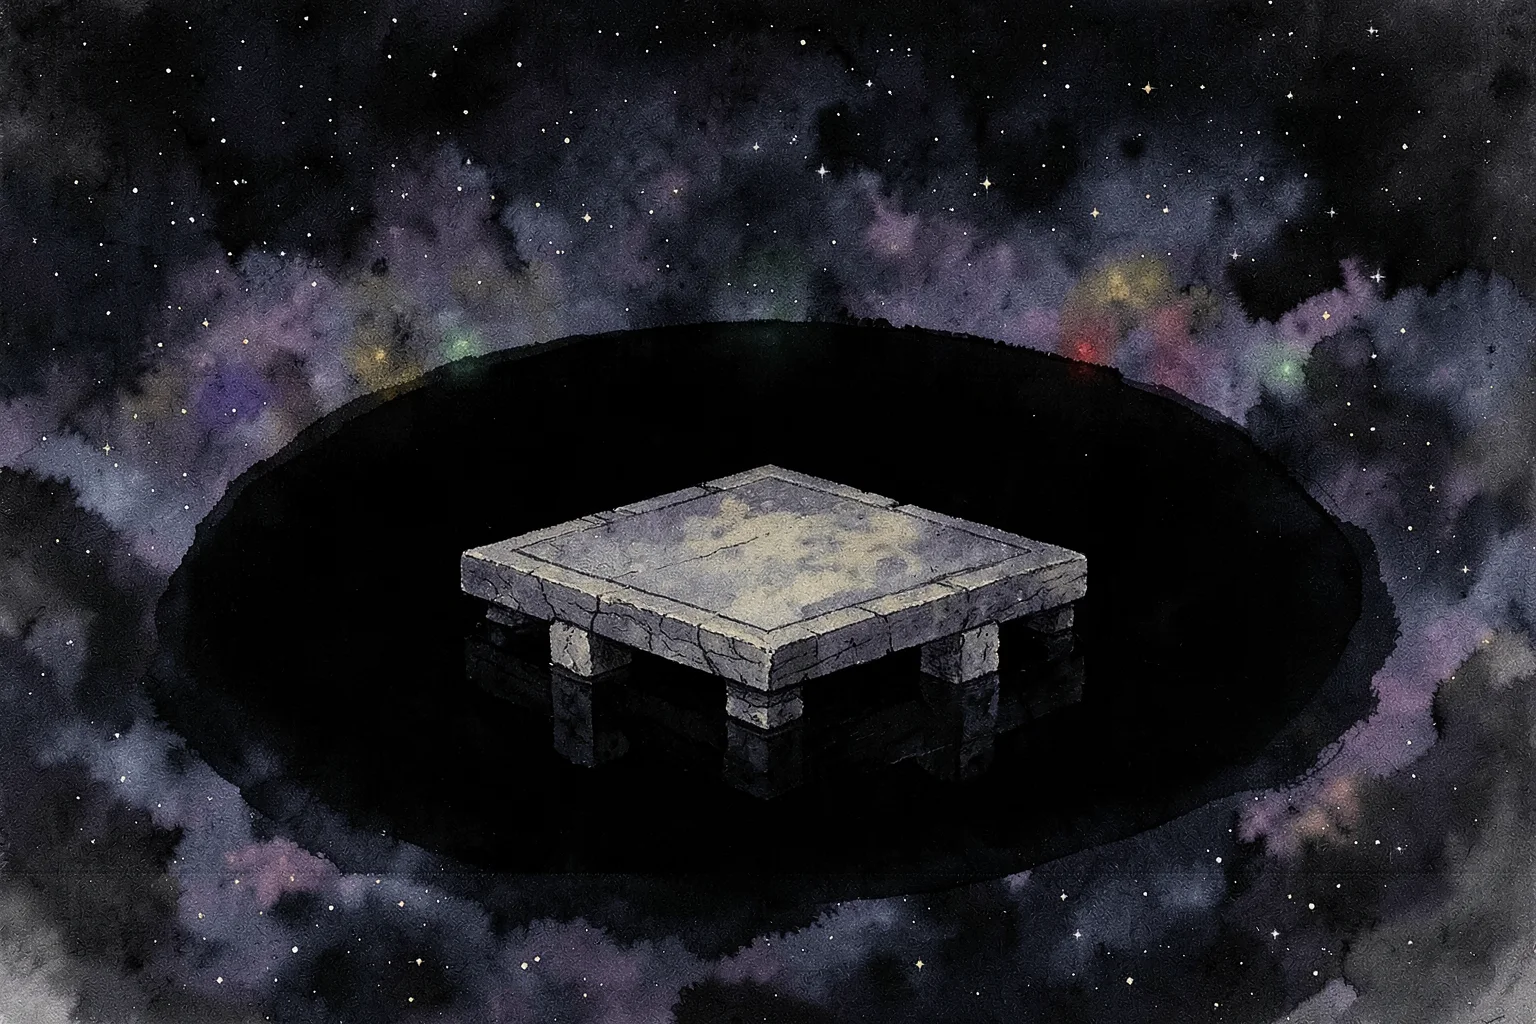
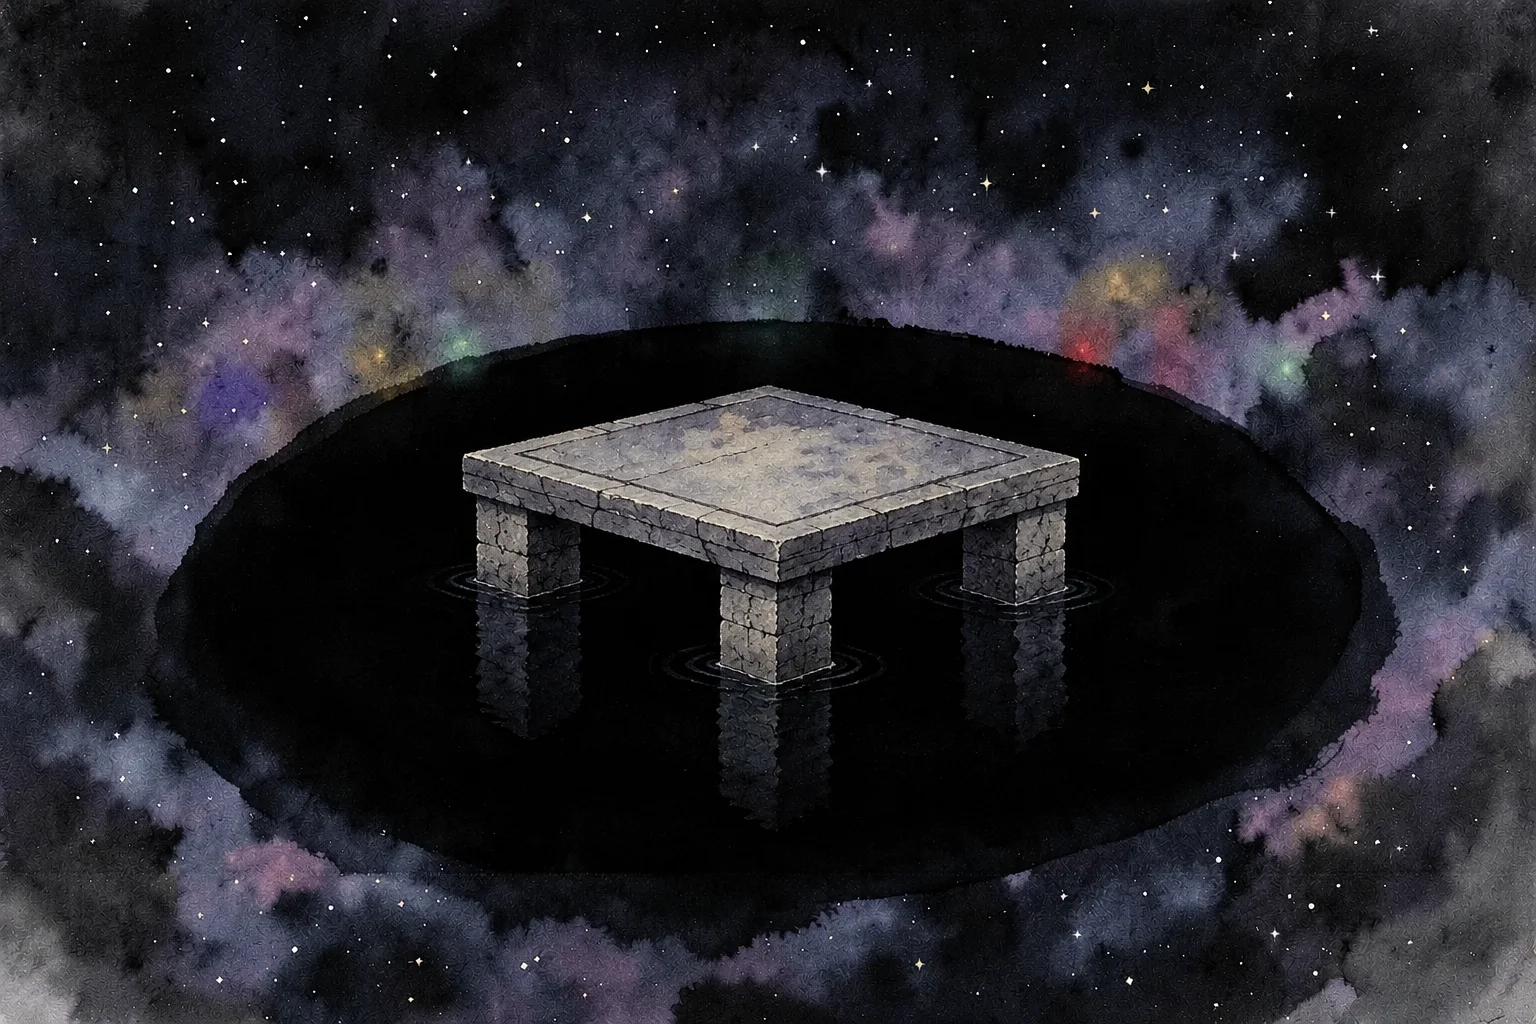
lingjing set pieces: the four Codex repaints — 筑基 b's face (Ming woodblock manner), c's gateways (five freestanding Chinese gates, all five glowing 金木水火土, the 台 flat; door glows re-measured), e1's 台 (raised on four masonry piers, not a low table); 漳水 e's 洛书 counts 4 9 2 / 3 5 7 / 8 1 6, odd white, e

diff --git a/lingjing/scripts/setpieces/zhuji.js b/lingjing/scripts/setpieces/zhuji.js
@@ -77,7 +77,7 @@ export const MARKS = {
   boy: [0.658, 0.45], // a: him on the 青石, the 锅盖云 just over him
   crown: [0.495, 0.34], // b: the light on his crown (his topknot)
   tai: [0.51, 0.62], // c: the platform
-  doors: [[0.17, 0.47], [0.3, 0.35], [0.67, 0.32], [0.765, 0.34], [0.865, 0.46]], // c: 金木水火土, gateways round the lake
+  doors: [[0.117, 0.46], [0.3, 0.32], [0.64, 0.3], [0.765, 0.35], [0.9, 0.46]], // c: 金木水火土, gateways round the lake
   note: [0.49, 0.36], // d1/d2: the paper on the door
   piles: [0.5, 0.6], // e1: the 台 on its four piles, in the black lake afloat in the cosmos
   him: [0.353, 0.8], // e2: him alone on the cliff, looking up

diff --git a/lingjing/tools/paint-setpiece-codex.py b/lingjing/tools/paint-setpiece-codex.py
@@ -1,0 +1,110 @@
+#!/usr/bin/env python3
+"""paint-setpiece-codex.py — the set pieces' Codex repaints: each frame fixed on its kept painting.
+
+    python3 tools/paint-setpiece-codex.py [--only zhuji-b,zhang-e] [--out DIR]
+
+Hanli decided four repaints (2026-09-30) that waited on Codex credits — the FLUX frames
+of 筑基天象 and the last 漳水 frame Codex had run out on:
+  zhuji-b   the face (FLUX's still read anime; Ming woodblock figure painting asked)
+  zhuji-c   the gateways (a wall ringing the lake, arches set in it, the 台 heaped with rocks)
+  zhuji-e1  the 台 (a low table on stubs; it stands on four piles out of the water)
+  zhang-e   the 洛书 dot counts (4 9 2 / 3 5 7 / 8 1 6 — odd white, even black)
+
+Each job hands Codex the kept painting itself (art/setpiece/<id>.webp) as the image to
+repaint, and asks for that one fix with composition, style and light unchanged — so the
+set piece's camera MARKS still land. Painted only with Codex's image tool: an earlier e
+whose tiles Codex overlaid with code was rejected. Same call as paint-codex.py (gpt-5.5,
+stdin closed, 10-minute cap, stop at a usage limit). Paint into a review folder (--out),
+look at every picture, then copy the kept ones into art/setpiece/.
+"""
+import argparse, subprocess, sys
+from pathlib import Path
+
+HERE = Path(__file__).resolve().parent
+ART = HERE.parent / 'worlds' / 'jiuding' / 'art' / 'setpiece'
+
+KEEP = ('Repaint the attached painting as ONE new image in landscape (3:2), 1536x1024. Keep everything about it the '
+        'same — the composition, the camera angle, the placement and size of every element, the painting style, the '
+        'palette, the paper texture and the light — and change ONLY what is described below. Paint it with your image '
+        'generation tool only: do not edit, draw on or overlay the picture with code. No text, no letters, no '
+        'calligraphy, no seal, no signature, no border, no frame.')
+
+JOBS = {
+  'zhuji-b': 'The change: the boy\'s FACE. Repaint his face in the manner of Ming dynasty woodblock and figure-painting '
+             'illustration: a small, plain, thin face drawn with a few fine ink brush lines, narrow closed eyes as two '
+             'short curved strokes, a small simple nose, a small closed mouth — a poor thin Chinese village boy of '
+             'thirteen. NOT anime, NOT manga, NOT a webtoon or cartoon face: no big eyes, no large round head, no '
+             'glossy hair, no blush. Keep his topknot, his body, his pose, the stone, the pine, the cloud and the very '
+             'faint thread of light that comes down from the cloud and rests on the top of his head exactly where they are.',
+  'zhuji-c': 'The change: the GATEWAYS round the lake. Replace the long white walls with FIVE separate, freestanding old '
+             'Chinese gateways, each standing on its own on the rim of the black lake with empty starry void between '
+             'them — no continuous wall around the lake. Each gateway is either a round moon gate set in a SHORT stretch '
+             'of whitewashed wall with a grey tiled top, or a plain timber gateway (a humble paifang) under a small curved '
+             'tiled roof — Chinese, not stone arches, not Romanesque, not European. Keep them where the five doors are '
+             'now: far left, left, right of centre, right, far right. Each gateway\'s opening glows softly from within, '
+             'from left to right: pale gold, moss green, deep indigo, dull cinnabar red, ochre yellow — all five glowing, '
+             'their glows reflected in the black water. Also: the square stone platform in the middle of the lake is '
+             'broad and FLAT on top, its top level and bare — no rocks piled on it; a few rough stones still rise out '
+             'of the water AROUND it, water streaming off them. No people.',
+  'zhuji-e1': 'The change: the PLATFORM. It must stand clearly up out of the still black water on exactly FOUR thick, '
+              'tall, square stone piles, one under each corner — all four piles visible, going straight down into the '
+              'water, each with its reflection below it, so there is a clear height of dark water and air between the '
+              'platform and the lake (it is a raised 台 on four piles, not a low table). Make it massive stone architecture, NOT furniture — not a table, not a stool, not a bench: the slab is thick and heavy, and the four piles are broad, rough-hewn square stone piers like the piers of an old stone bridge, rising out of the deep water. The platform itself: one square, '
+              'flat, level stone slab, empty, solid and calm. Keep it in the centre of the lake where it is now, seen a '
+              'little from the side, the lake floating in the dark cosmos with its stars and muted nebula, and the five '
+              'small soft glows far off round the edge of the lake (gold, green, indigo, red, ochre). No people, no '
+              'figures, no cliff.',
+  'zhang-e': 'The change: the DOTS on the nine square stone tiles on top of the bronze vessel (the 洛书, the Lo Shu '
+             'magic square). Every tile keeps its place; only its dots change. Each tile carries a set of round dots, '
+             'clearly separate and countable, set in a simple regular pattern like dice pips. ODD numbers are WHITE '
+             'dots (pale, bright, like inlaid white jade); EVEN numbers are BLACK dots (dark ink, like inlaid jet). '
+             'Read the grid as it lies in the picture, the far row at the top: FAR row, left to right: 4 black dots, '
+             '9 white dots, 2 black dots. MIDDLE row, left to right: 3 white dots, 5 white dots (this is the centre '
+             'tile, under the boy\'s hand, glowing softly), 7 white dots. NEAR row (the front edge), left to right: '
+             '8 black dots, 1 white dot, 6 black dots. Exactly those numbers — every row, column and diagonal adds up '
+             'to 15. Keep the boy swimming down with his hand pressed on the centre tile, the light from above, the '
+             'fish, the weed, the square four-legged vessel and its carved sides exactly as they are.',
+}
+
+
+def paint(key, out_dir, src=None, extra=''):
+  src = Path(src) if src else ART / f'{key}.webp'
+  ref = out_dir / f'{key}-ref.png'
+  png = out_dir / f'{key}.png'
+  if src.suffix == '.png':
+    ref.write_bytes(src.read_bytes())
+  else:
+    subprocess.run(['/opt/homebrew/bin/dwebp', '-quiet', str(src), '-o', str(ref)], check=True)
+  png.unlink(missing_ok=True)
+  prompt = f'{KEEP} {JOBS[key]} {extra} Save the image in the current directory as {png.name}. Reply with the saved file path only.'
+  try:
+    r = subprocess.run(['codex', 'exec', '-m', 'gpt-5.5', '--skip-git-repo-check', '-s', 'workspace-write', '-i', str(ref), '--', prompt],
+                       cwd=out_dir, capture_output=True, text=True, stdin=subprocess.DEVNULL, timeout=600)
+  except subprocess.TimeoutExpired:
+    return 'failed: no picture in 10 minutes'
+  if not png.exists():
+    said = (r.stdout + r.stderr).lower()
+    if 'usage limit' in said or 'out of credits' in said or 'rate limit' in said:
+      raise SystemExit(f'{key}: Codex limit reached — stopped')
+    return f'failed: {r.stdout.strip()[-200:]} {r.stderr.strip()[-200:]}'
+  c = subprocess.run(['/opt/homebrew/bin/cwebp', '-q', '84', '-resize', '1536', '1024', str(png), '-o', str(out_dir / f'{key}.webp')], capture_output=True)
+  return 'ok' if c.returncode == 0 else 'cwebp failed'
+
+
+def main():
+  ap = argparse.ArgumentParser()
+  ap.add_argument('--only', default='')
+  ap.add_argument('--ref', default=None, help='repaint this picture (a kept review roll) instead of art/setpiece/<id>.webp')
+  ap.add_argument('--extra', default='', help='one more sentence: what the last roll got wrong')
+  ap.add_argument('--out', required=True, help='a review folder; copy the kept pictures into art/setpiece/ by hand')
+  a = ap.parse_args()
+  only = set(filter(None, a.only.split(',')))
+  out = Path(a.out).resolve()
+  out.mkdir(parents=True, exist_ok=True)
+  for key in JOBS:
+    if not only or key in only:
+      print(f'{key}: {paint(key, out, a.ref, a.extra)}', flush=True)
+
+
+if __name__ == '__main__':
+  sys.exit(main())

diff --git a/lingjing/worlds/jiuding/art/CREDITS.md b/lingjing/worlds/jiuding/art/CREDITS.md
@@ -127,8 +127,8 @@ The chapter has no story panels (his ruling, 2026-09-29). No outside source.
 
 ## 第九回 · 筑基天象 — set-piece paintings (2026-09-30)
 
-`setpiece/zhuji-a.webp` (锅盖云: one small cloud over the one cliff top, him far off on the stone), `zhuji-b.webp` (一缕光: a faint thread of light on his crown), `zhuji-c.webp` (丹田台: the stones stacking in the black lake, five Chinese gateways round it in muted 五色), `zhuji-d1.webp` / `zhuji-d2.webp` (那扇门: an old door standing alone on the black water, the note rain-run past reading, then 「今日放学」), `zhuji-e1.webp` (四桩: the 台 standing firm on its four piles in the black lake), `zhuji-e2.webp` (星垂: him alone on the cliff under an ordinary, slightly clearer night) — painted by the local picture model (FLUX.2 klein 4B, mflux) with tools/paint-zhuji.py, which holds every prompt and kept seed; Codex, zhang's painter, was out of credits. His ruling the same day (「筑基有一点天象就可以」, the first rung of a ladder) made the outside frames (a, b, e2) restrained monochrome ink. His note after (「筑基的图片在小满旁边画了个台子, 其实应该是内景的台子吧」): the first e had stitched the 台 under the boy on the cliff; the inside frames (c, d1/d2, e1) were repainted as a small cosmos inside him — a dark void, faint stars, nebula-like ink, the black lake afloat — and e split in two, the 台 and the cliff never in one painting; c's Romanesque stone arches became Chinese gateways; b repainted for a plainer, less anime face. The note's four characters are a Xingkai (行楷) system face multiplied into d1's painted paper. Rejected on the way: colour rounds of a, b, e before the ruling; clouds painted as a literal pot or jar; two boys where one was asked; a light shaft missing his head; e as one picture (the boy sat on the platform, no night), then e as a stitched tall picture (the 台 read as beside him); an e-tai with five or six legs; c rounds with walls ringing the whole lake or the 台 heaped with rocks; b rounds whose faces still read anime. Every picture looked at. No outside source.
+`setpiece/zhuji-a.webp` (锅盖云: one small cloud over the one cliff top, him far off on the stone), `zhuji-b.webp` (一缕光: a faint thread of light on his crown), `zhuji-c.webp` (丹田台: the stones stacking in the black lake, five Chinese gateways round it in muted 五色), `zhuji-d1.webp` / `zhuji-d2.webp` (那扇门: an old door standing alone on the black water, the note rain-run past reading, then 「今日放学」), `zhuji-e1.webp` (四桩: the 台 standing firm on its four piles in the black lake), `zhuji-e2.webp` (星垂: him alone on the cliff under an ordinary, slightly clearer night) — painted by the local picture model (FLUX.2 klein 4B, mflux) with tools/paint-zhuji.py, which holds every prompt and kept seed; Codex, zhang's painter, was out of credits. His ruling the same day (「筑基有一点天象就可以」, the first rung of a ladder) made the outside frames (a, b, e2) restrained monochrome ink. His note after (「筑基的图片在小满旁边画了个台子, 其实应该是内景的台子吧」): the first e had stitched the 台 under the boy on the cliff; the inside frames (c, d1/d2, e1) were repainted as a small cosmos inside him — a dark void, faint stars, nebula-like ink, the black lake afloat — and e split in two, the 台 and the cliff never in one painting; c's Romanesque stone arches became Chinese gateways; b repainted for a plainer, less anime face. The note's four characters are a Xingkai (行楷) system face multiplied into d1's painted paper. Rejected on the way: colour rounds of a, b, e before the ruling; clouds painted as a literal pot or jar; two boys where one was asked; a light shaft missing his head; e as one picture (the boy sat on the platform, no night), then e as a stitched tall picture (the 台 read as beside him); an e-tai with five or six legs; c rounds with walls ringing the whole lake or the 台 heaped with rocks; b rounds whose faces still read anime. Every picture looked at. No outside source. Repainted with Codex 2026-10-01 (tools/paint-setpiece-codex.py, gpt-5.5 image generation, each kept FLUX frame handed in as the picture to repaint, composition kept): b's face redrawn in the Ming woodblock figure manner; c's five gateways freestanding Chinese moon gates and timber gateways on the rim, all five glowing 金木水火土, the 台 flat on top (door glows re-measured in zhuji.js MARKS); e1's 台 raised on four masonry piers with ripples, not a low table. Rejected on the way: a b and a b re-roll whose faces barely moved, two e1 rolls that still read as a table on thin legs.
 
 ## 第十回 · 漳水立起 — set-piece stills (2026-09-30)
 
-`setpiece/zhang-a.webp`, `zhang-b.webp`, `zhang-c.webp`, `zhang-e.webp`, `zhang-f.webp` — five key frames for 卷一's 大场面 (the 漳水 standing up; 冰夷 on his two dragons; the trial; the 洛书 seal on the square four-legged 冀州鼎 under the river; the 鼎 rising at moonrise), following 10-第十回.md: painted with Codex CLI's image generation (gpt-5.5, 1536×1024), 2026-09-30, the frames with people given art/people/bingyi.webp, xiaoman.webp, doufu-xishi.webp (and for f art/items/fox-token.webp) as references, and e/f given a and c as style references. Hanli kept a, b, c and dropped d; e and f were repainted to his note (a square 方鼎 with four legs; 银月 curled inside the jacket, the token's second tail lit). Rejected on the way: a vignetted c, a crowned 冰夷, a photoreal round-鼎 e, a pasted-card e whose tiles Codex overlaid with code, a pendant-shaped token in f. Codex ran out of credits during the last e round; local FLUX (FLUX.2 klein 4B, four seeds) was tried for e and looked at, and did not reach the style of a–c (not underwater, a small child, random dots), so e is the first repaint. Every picture looked at. No outside source.
+`setpiece/zhang-a.webp`, `zhang-b.webp`, `zhang-c.webp`, `zhang-e.webp`, `zhang-f.webp` — five key frames for 卷一's 大场面 (the 漳水 standing up; 冰夷 on his two dragons; the trial; the 洛书 seal on the square four-legged 冀州鼎 under the river; the 鼎 rising at moonrise), following 10-第十回.md: painted with Codex CLI's image generation (gpt-5.5, 1536×1024), 2026-09-30, the frames with people given art/people/bingyi.webp, xiaoman.webp, doufu-xishi.webp (and for f art/items/fox-token.webp) as references, and e/f given a and c as style references. Hanli kept a, b, c and dropped d; e and f were repainted to his note (a square 方鼎 with four legs; 银月 curled inside the jacket, the token's second tail lit). Rejected on the way: a vignetted c, a crowned 冰夷, a photoreal round-鼎 e, a pasted-card e whose tiles Codex overlaid with code, a pendant-shaped token in f. Codex ran out of credits during the last e round; local FLUX (FLUX.2 klein 4B, four seeds) was tried for e and looked at, and did not reach the style of a–c (not underwater, a small child, random dots), so e is the first repaint. Every picture looked at. No outside source. Frame e repainted with Codex 2026-10-01 (tools/paint-setpiece-codex.py), the kept e handed in as the picture to repaint: the 洛书 counts now read 4 9 2 / 3 5 7 / 8 1 6, odd white, even black, all else as it was. The first roll had 8 for 7 and 12 for 8; a second pass on that roll fixed only those two tiles. Every tile counted by eye.
